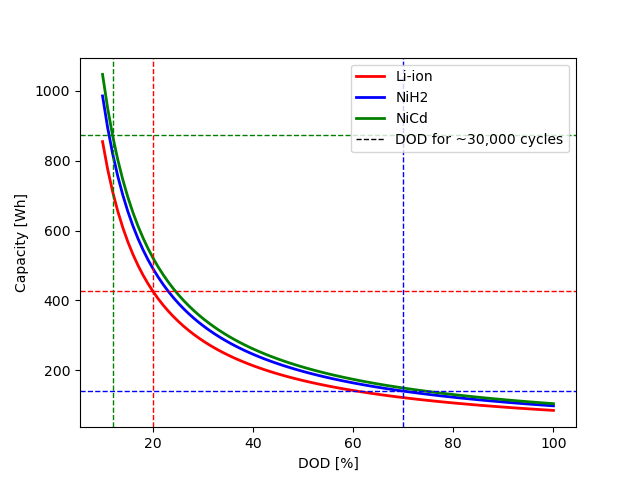
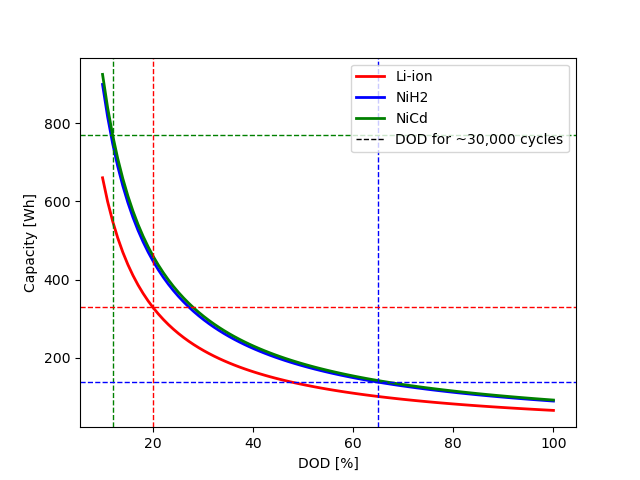
up

diff --git a/General model/Solar_Arrays.py b/General model/Solar_Arrays.py
@@ -109,7 +109,7 @@ class Solar_Array:
                + self.P_TCS[0][0] * (self.T_o - self.T_TCS) + self.P_GNS[0][0] * (self.T_o - self.T_GNS)
         P_avg = (E_nom+E_Peak) / self.T_o
         # Power distribution unit efficiency of connversion + losses + EPS consumption
-        n_dis = 0.95
+        n_dis = 0.95 * 0.98
         return (P_avg / n_dis - P_avg) + 0.15
 
     def E_out(self):
@@ -451,8 +451,8 @@ class Solar_Array:
 
         # Assumed efficienncy of charging, discharging
         n_bat_Liion = 0.98
-        n_bat_Nih2 = 0.85
-        n_bat_NiCd = 0.80
+        n_bat_Nih2 = 0.72
+        n_bat_NiCd = 0.70
 
         # Plotting Capacity as a function of DOD [%]
         DOD = np.linspace(10, 100, 90)
@@ -468,7 +468,7 @@ class Solar_Array:
 
         # Ploting Vertical lines in relation to N_c, DOD_Liion = 20%, DOD_Nih2 = 65%, DOD_NiCd = 12% SMAD
         DOD_Liion = 20
-        DOD_Nih2 = 70
+        DOD_Nih2 = 65
         DOD_NiCd = 12
 
         plt.axvline(x=DOD_Liion, color='r', linestyle='--', linewidth=1)

diff --git a/General model/SA_run.py b/General model/SA_run.py
@@ -22,7 +22,7 @@ SA = Solar_Array(param_data_path)
 
 # EPS power consumption
 EPS_check = SA.EPS_P()
-if abs(EPS_check - SA.P_EPS[0][0]) > 0.1:
+if abs(EPS_check - SA.P_EPS[0][0]) > 0.0001:
     print(f'{red}ERROR: EPS power consumption is {SA.P_EPS[0][0]} W, but should be {EPS_check} W{white}')
     exit()
 
